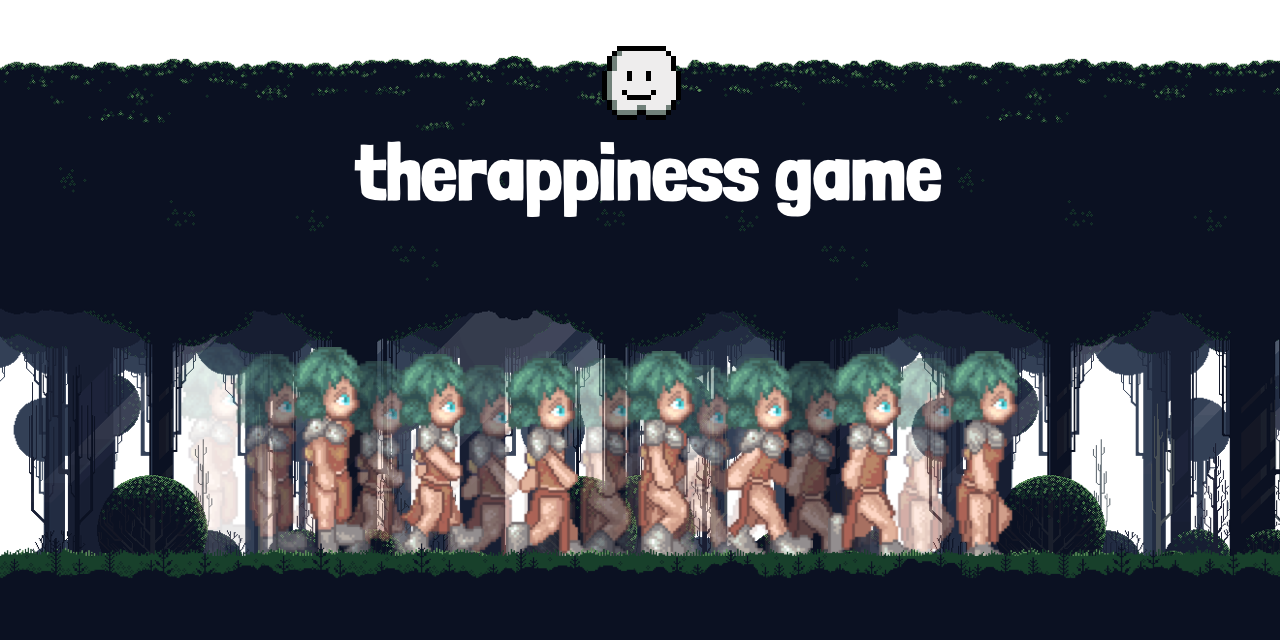
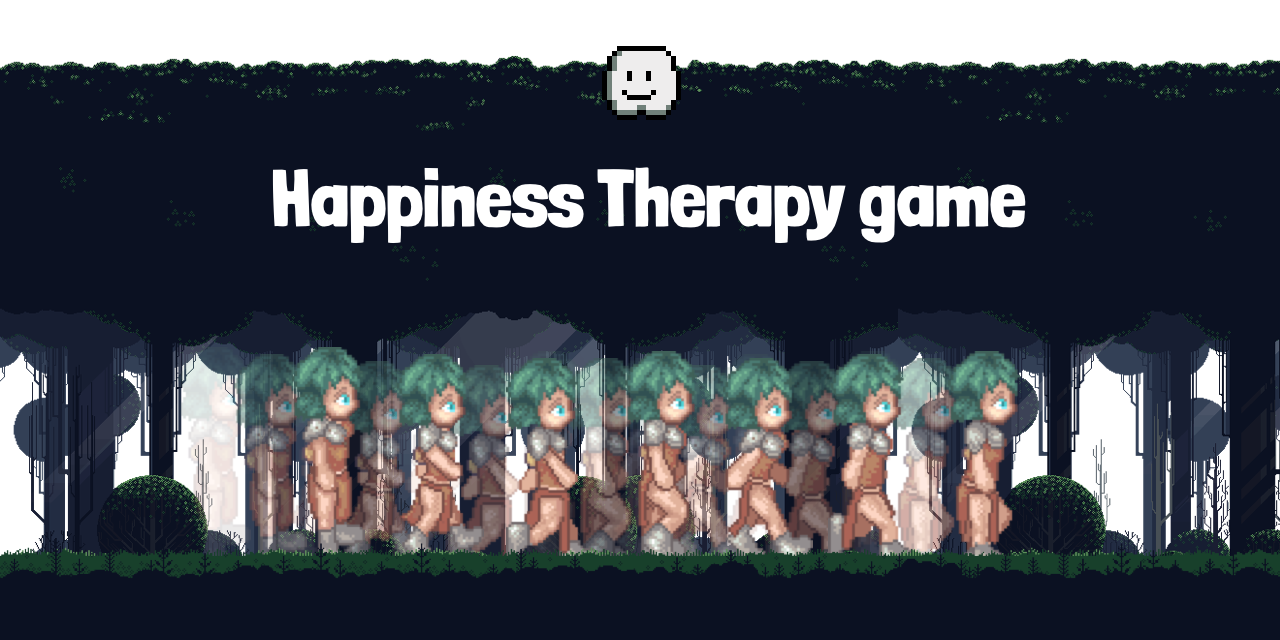
changements read.me

Changed region(s): [[0.1875, 0.2188, 0.8125, 0.375]]

diff --git a/README.md b/README.md
@@ -2,14 +2,16 @@
 
 ![Happiness Therapy Game](./img/background-fixed-image.png)
 
+## Context
+
+This game project was realized in 4 days as part of an intensive training at Ironhack to become Fullstack JS web developer.
+
+## Rules
+
 You've just entered Abby's mind.
 It's a little bit dark down here.
 As you can see around you, Abby might have the blues..
 You're main mission is to help Abby collect good thoughts and avoid dark ones to fill the happiness gauge to 100%.
 You can use right & left keyboard key to move and the space bar to jump.
 
-## Context
-
-This game project was realized in 4 days as part of an intensive training at Ironhack to become Fullstack JS web developer.
-
-Have fun !
+Enjoy!
